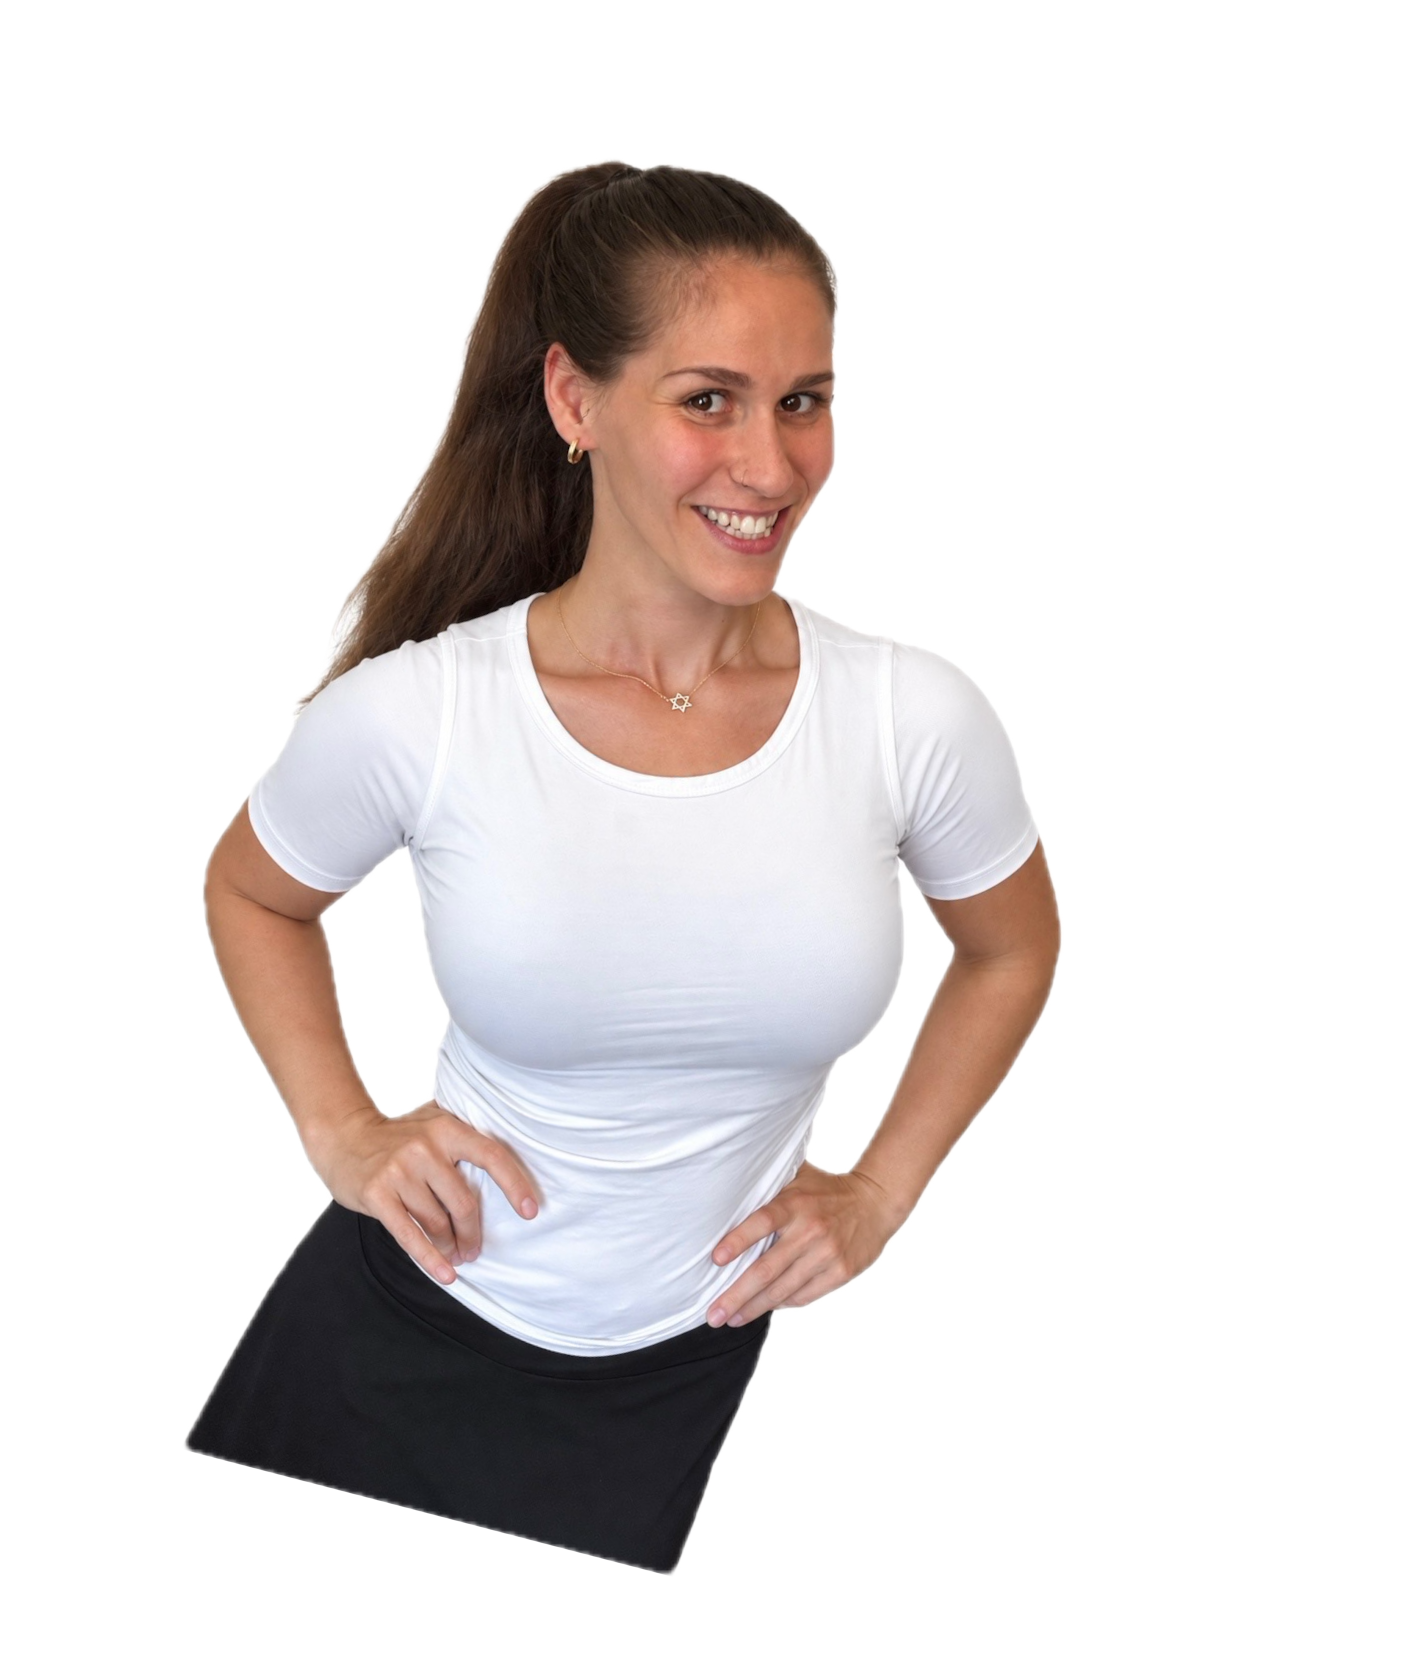
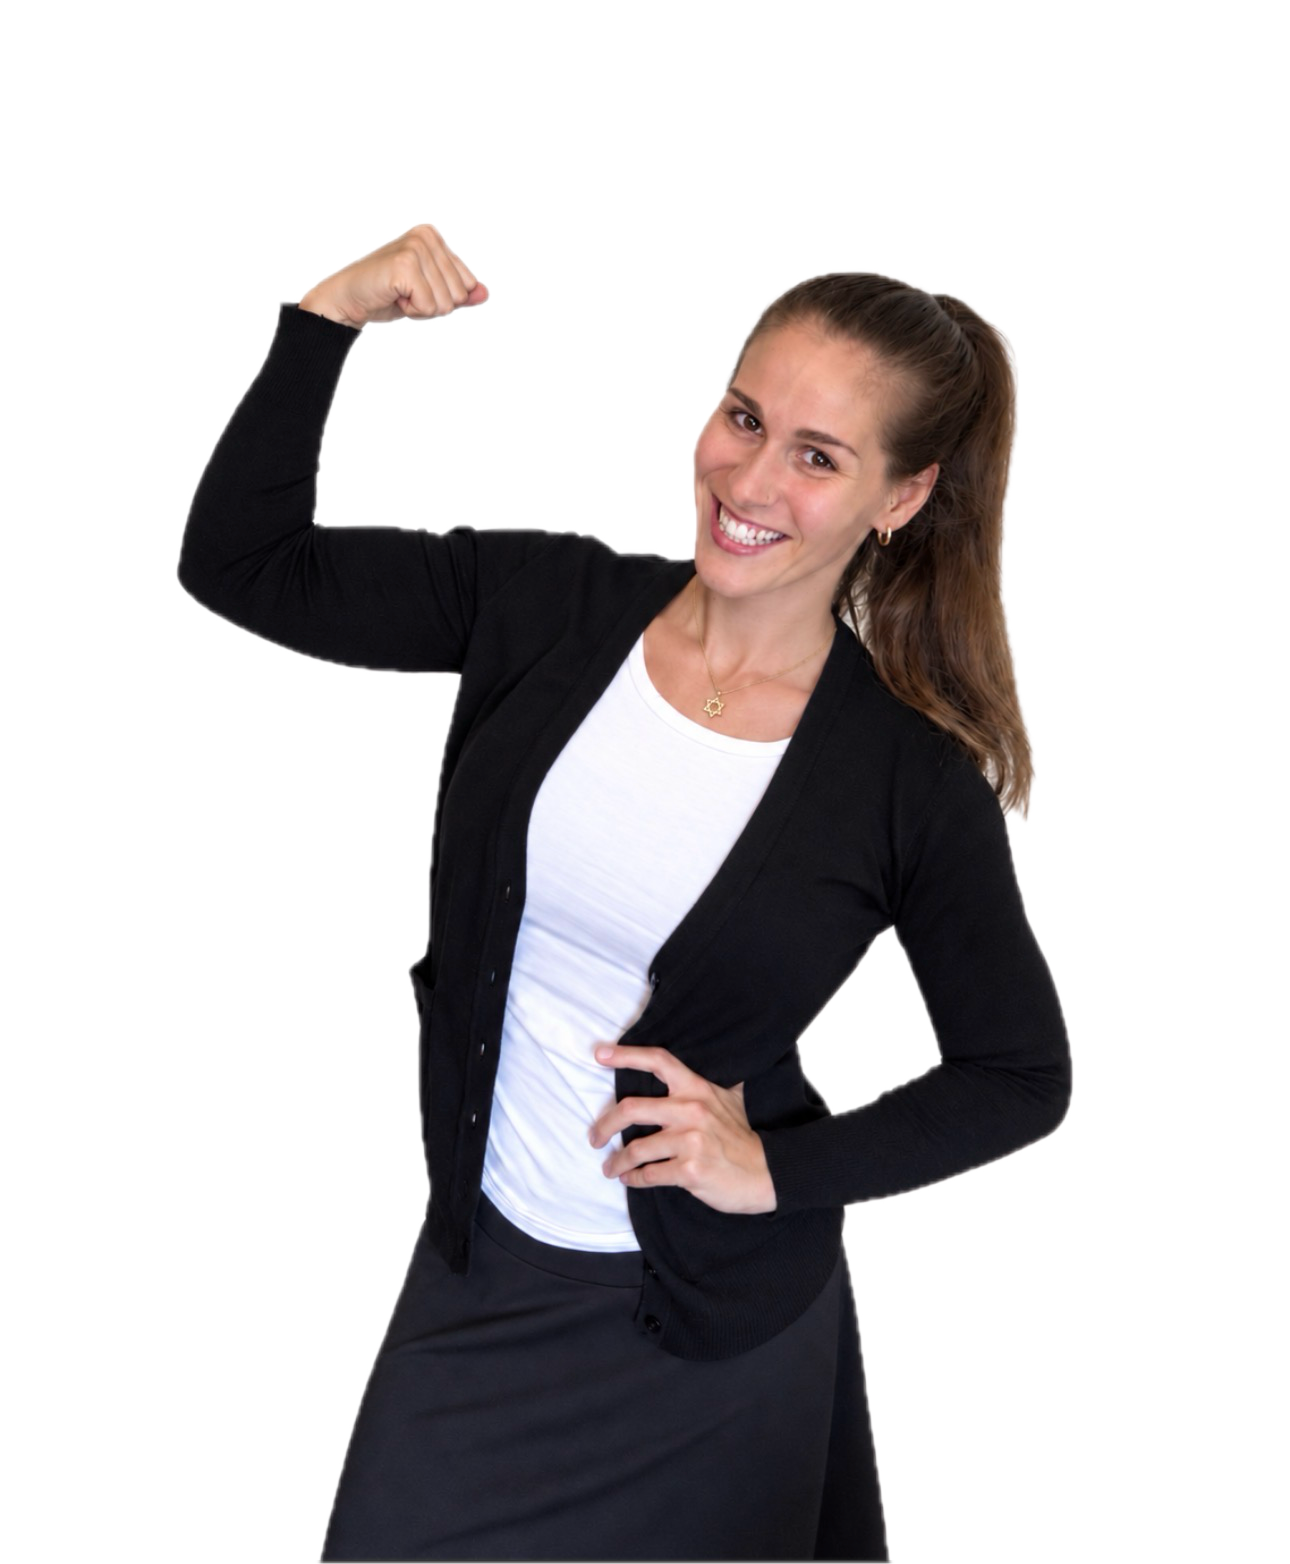
Nikki (Trello): 'shifts into place' copy fix, light-pink palette, new flexing hero photo + OG

diff --git a/style.css b/style.css
@@ -1,7 +1,7 @@
 :root {
-  --c-cyan: #2f9ea3;
-  --c-cyan-light: #cdeef0;
-  --c-mauve: #2f9ea3;
+  --c-cyan: #d1668f;
+  --c-cyan-light: #f6d3e2;
+  --c-mauve: #d1668f;
   --c-gray-mid: #817f82;
   --c-gray-light: #a2abb5;
   --c-bg: #faf9f6;
@@ -24,7 +24,7 @@ body {
   font-size: 17px;
   line-height: 1.6;
   color: var(--c-fg);
-  background: radial-gradient(1100px 560px at 50% 90px, #dff4f5, var(--c-bg) 68%) no-repeat var(--c-bg);
+  background: radial-gradient(1100px 560px at 50% 90px, #fbe3ee, var(--c-bg) 68%) no-repeat var(--c-bg);
   -webkit-font-smoothing: antialiased;
   text-rendering: optimizeLegibility;
 }
@@ -32,7 +32,7 @@ body {
    gentle ambient top-wash so desktop doesn't read as busy. */
 @media (min-width: 768px) {
   body {
-    background: radial-gradient(1700px 780px at 50% -200px, #e8f7f8, var(--c-bg) 58%) no-repeat var(--c-bg);
+    background: radial-gradient(1700px 780px at 50% -200px, #fdeef5, var(--c-bg) 58%) no-repeat var(--c-bg);
   }
 }
 
@@ -88,7 +88,7 @@ body {
   border-radius: 50%;
   display: block;
   margin: 0 auto 1.5rem;
-  box-shadow: 0 6px 24px rgba(60, 160, 165, 0.18);
+  box-shadow: 0 6px 24px rgba(209, 102, 143, 0.18);
 }
 .nav-links {
   display: flex;
@@ -185,7 +185,7 @@ body {
   background: var(--c-cyan);
   color: #fff;
 }
-.btn-primary:hover { background: #26858a; }
+.btn-primary:hover { background: #bd5a80; }
 .btn-secondary {
   background: transparent;
   color: var(--c-fg);
@@ -197,10 +197,10 @@ body {
   font-size: 1.02rem;
 }
 .btn-hero.btn-primary {
-  box-shadow: 0 8px 22px rgba(60, 160, 165, 0.26);
+  box-shadow: 0 8px 22px rgba(209, 102, 143, 0.26);
 }
 .btn-hero.btn-primary:hover {
-  box-shadow: 0 10px 26px rgba(60, 160, 165, 0.32);
+  box-shadow: 0 10px 26px rgba(209, 102, 143, 0.32);
   transform: translateY(-1px);
 }
 .hero-cta-note {
@@ -346,7 +346,7 @@ form input, form textarea, form select {
 form input:focus, form textarea:focus, form select:focus {
   outline: none;
   border-color: var(--c-cyan);
-  box-shadow: 0 0 0 3px rgba(47, 158, 163, 0.3);
+  box-shadow: 0 0 0 3px rgba(209, 102, 143, 0.3);
 }
 form input:user-invalid, form textarea:user-invalid,
 form input[aria-invalid="true"], form textarea[aria-invalid="true"] {

diff --git a/index.html b/index.html
@@ -22,7 +22,7 @@
   <meta name="twitter:description" content="A private women's training studio in Teaneck, NJ. 1-on-1 training, small-group classes, nutrition, and in-home training with Nikki.">
   <meta name="twitter:image" content="https://nik.fit/og-image.jpg">
 
-  <meta name="theme-color" content="#ae8ca3">
+  <meta name="theme-color" content="#d1668f">
   <link rel="icon" href="favicon.svg" type="image/svg+xml">
 
   <link rel="preconnect" href="https://fonts.googleapis.com">
@@ -113,7 +113,7 @@
   <section class="section" style="text-align: center; padding: 4rem 0;">
     <div class="container" style="max-width: 680px;">
       <p class="eyebrow" style="margin-bottom: 1.25rem;">The idea</p>
-      <p style="font-family: var(--font-serif); font-size: clamp(1.2rem, 3vw, 1.5rem); font-style: italic; line-height: 1.55; color: var(--c-fg); margin: 0 auto;">When a woman feels strong in her body, everything else shifts.</p>
+      <p style="font-family: var(--font-serif); font-size: clamp(1.2rem, 3vw, 1.5rem); font-style: italic; line-height: 1.55; color: var(--c-fg); margin: 0 auto;">When a woman feels strong in her body, everything else shifts into place.</p>
     </div>
   </section>
 

diff --git a/schedule.html b/schedule.html
@@ -7,7 +7,7 @@
   <meta name="robots" content="noindex">
   <meta http-equiv="refresh" content="0; url=/">
   <link rel="canonical" href="https://nik.fit/">
-  <meta name="theme-color" content="#ae8ca3">
+  <meta name="theme-color" content="#d1668f">
   <link rel="icon" href="favicon.svg" type="image/svg+xml">
 </head>
 <body><p>This page has moved. <a href="/">Continue to Nikfit →</a></p></body>
